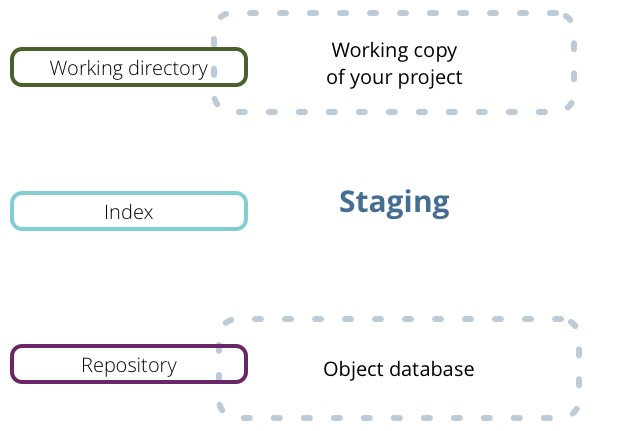
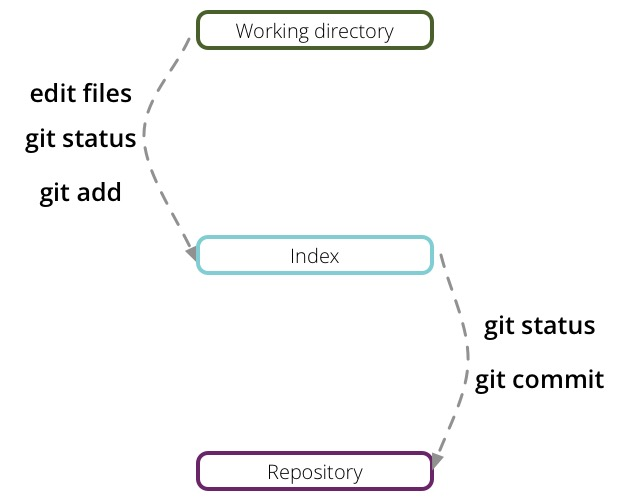
adding images for summary slides

diff --git a/index.html b/index.html
@@ -200,7 +200,8 @@
    </section>
 
    <section>
-    <h2>Branching and Merging</h2><br>
+    <h2>Branching and Merging</h2>
+    <br>
     <ul>
      <li> Non linear development </li>
      <li> Try a new idea </li>
@@ -220,7 +221,8 @@
    </section>
 
    <section>
-    <h2>Finally.... sharing</h2><br>
+    <h2>Finally.... sharing</h2>
+    <br>
     <ul>
      <li> Non linear development </li>
      <li> Try a new idea </li>
@@ -243,192 +245,214 @@
    </section>
 
    <section>
-    <h2>In Summary...</h2><br><br>
+    <h2>In Summary...</h2>
+    <br>
+    <br>
     <ul>
-     <li> Create a local repository </li>
+     <li> We are starting with a new project </li>
     </ul>
    </section>
 
    <section data-transition="none">
-    <h2>In Summary...</h2><br>
+    <h2>In Summary...</h2>
+    <br>
     <ul>
-     <li> Create a local repository </li>
+     <li> We are starting with a new project </li>
      <code> git init </code>
     </ul>
    </section>
 
    <section data-transition="none">
-    <h2>In Summary...</h2><br>
+    <h2>In Summary...</h2>
+    <br>
     <ul>
-     <li> Create a local repository </li>
+     <li> We are starting with a new project </li>
      <code> git init </code>
-     <li> Add files to staging aread </li>
+     <li> My first few test cases are green </li>
     </ul>
    </section>
 
    <section data-transition="none">
-    <h2>In Summary...</h2><br>
+    <h2>In Summary...</h2>
+    <br>
     <ul>
-     <li> Create a local repository </li>
+     <li> We are starting with a new project </li>
      <code> git init </code>
-     <li> Add files to staging aread </li>
-     <code> git add filename </code>
+     <li> My first few test cases are green </li>
+     <code> git status && git add filename </code>
     </ul>
    </section>
 
    <section data-transition="none">
-    <h2>In Summary...</h2><br>
+    <h2>In Summary...</h2>
+    <br>
     <ul>
-     <li> Create a local repository </li>
+     <li> We are starting with a new project </li>
      <code> git init </code>
-     <li> Add files to staging aread </li>
-     <code> git add filename </code>
-     <li> Commit files to local repository </li>
+     <li> My first few test cases are green </li>
+     <code> git status && git add filename </code>
+     <li> I want to update files to my local repository </li>
     </ul>
    </section>
 
    <section data-transition="none">
-    <h2>In Summary...</h2><br>
+    <h2>In Summary...</h2>
+    <br>
     <ul>
-     <li> Create a local repository </li>
+     <li> We are starting with a new project </li>
      <code> git init </code>
-     <li> Add files to staging aread </li>
-     <code> git add filename </code>
-     <li> Commit files to local repository </li>
+     <li> My first few test cases are green </li>
+     <code> git status && git add filename </code>
+     <li> I want to update files to my local repository </li>
      <code> git commit -m "refactor:... @pair@: zzz " </code>
     </ul>
    </section>
 
    <section data-transition="none">
-    <h2>In Summary...</h2><br>
+    <h2>In Summary...</h2>
+    <br>
     <ul>
-     <li> Create a local repository </li>
+     <li> We are starting with a new project </li>
      <code> git init </code>
-     <li> Add files to staging aread </li>
-     <code> git add filename </code>
-     <li> Commit files to local repository </li>
+     <li> My first few test cases are greend </li>
+     <code> git status && git add filename </code>
+     <li> I want to update files to my local repository </li>
      <code> git commit -m "refactor:... @pair@: zzz " </code>
-     <li> Check the status </li>
+     <li> I want to check the status </li>
     </ul>
    </section>
 
    <section data-transition="none">
-    <h2>In Summary...</h2><br>
+    <h2>In Summary...</h2>
+    <br>
     <ul>
-     <li> Create a local repository </li>
+     <li> We are starting with a new project </li>
      <code> git init </code>
-     <li> Add files to staging aread </li>
-     <code> git add filename </code>
-     <li> Commit files to local repository </li>
+     <li> My first few test cases are green </li>
+     <code> git status && git add filename </code>
+     <li> I want to update files to my local repository </li>
      <code> git commit -m "refactor:... @pair@: zzz " </code>
-     <li> Check the status </li>
+     <li> I want to check the status </li>
      <code> git status </code>
     </ul>
    </section>
 
    <section data-transition="none">
-    <h2>In Summary...</h2><br>
+    <h2>In Summary...</h2>
+    <br>
     <ul>
-     <li> Create a local repository </li>
+     <li> We are starting with a new project </li>
      <code> git init </code>
-     <li> Add files to staging aread </li>
-     <code> git add filename </code>
-     <li> Commit files to local repository </li>
+     <li> My first few test cases are green </li>
+     <code> git status && git add <i>filename</i> </code>
+     <li> I want to update files to my local repository </li>
      <code> git commit -m "refactor:... @pair@: zzz " </code>
-     <li> Check the status </li>
+     <li> I want to check the status </li>
      <code> git status </code>
-     <li> Update to existing remote repository </li>
+     <li> Get updates pushed by my friends </li>
     </ul>
    </section>
 
    <section data-transition="none">
-    <h2>In Summary...</h2><br>
+    <h2>In Summary...</h2>
+    <br>
     <ul>
-     <li> Create a local repository </li>
+     <li> We are starting with a new project </li>
      <code> git init </code>
-     <li> Add files to staging aread </li>
-     <code> git add filename </code>
-     <li> Commit files to local repository </li>
+     <li> My first few test cases are green </li>
+     <code> git status && git add <i>filename</i> </code>
+     <li> I want to update files to my local repository </li>
      <code> git commit -m "refactor:... @pair@: zzz " </code>
-     <li> Check the status </li>
+     <li> I want to check the status </li>
      <code> git status </code>
-     <li> Update to existing remote repository </li>
+     <li> Get updates pushed by my friends </li>
+     <code> git pull</code>
+    </ul>
+   </section>
+
+   <section data-transition="none">
+    <h2>In Summary...</h2>
+    <br>
+    <ul>
+     <li> We are starting with a new project </li>
+     <code> git init </code>
+     <li> My first few test cases are green </li>
+     <code> git status && git add <i>filename</i> </code>
+     <li> I want to update files to my local repository </li>
+     <code> git commit -m "refactor:... @pair@: zzz " </code>
+     <li> I want to check the status </li>
+     <code> git status </code>
+     <li> Get updates pushed by my friends </li>
+     <code> git pull </code>
+     <li> Update my changes to existing remote repository </li>
+    </ul>
+   </section>
+
+   <section data-transition="none">
+    <h2>In Summary...</h2>
+    <br>
+    <ul>
+     <li> We are starting with a new project </li>
+     <code> git init </code>
+     <li> My first few test cases are green </li>
+     <code> git status && git add <i>filename</i> </code>
+     <li> I want to update files to my local repository </li>
+     <code> git commit -m "refactor:... @pair@: zzz " </code>
+     <li> I want to check the status </li>
+     <code> git status </code>
+     <li> Get updates pushed by my friends </li>
+     <code> git pull </code>
+     <li> Update my changes to existing remote repository </li>
      <code> git push <i>remote</i> <i>branch</i> </code>
-    </ul>
-   </section>
-
-   <section data-transition="none">
-    <h2>In Summary...</h2><br>
-    <ul>
-     <li> Create a local repository </li>
-     <code> git init </code>
-     <li> Add files to staging aread </li>
-     <code> git add filename </code>
-     <li> Commit files to local repository </li>
-     <code> git commit -m "refactor:... @pair@: zzz " </code>
-     <li> Check the status </li>
-     <code> git status </code>
-     <li> Update to existing remote repository </li>
-     <code> git push <i>remote</i> <i>branch</i> </code>
-     <li> Work on existing repository </li>
-    </ul>
-   </section>
-
-   <section data-transition="none">
-    <h2>In Summary...</h2><br>
-    <ul>
-     <li> Create a local repository </li>
-     <code> git init </code>
-     <li> Add files to staging aread </li>
-     <code> git add filename </code>
-     <li> Commit files to local repository </li>
-     <code> git commit -m "refactor:... @pair@: zzz " </code>
-     <li> Check the status </li>
-     <code> git status </code>
-     <li> Update to existing remote repository </li>
-     <code> git push <i>remote</i> <i>branch</i> </code>
-     <li> Work on existing repository </li>
-     <code> git clone <i>repository</i> </code>
     </ul>
    </section>
 
    <section data-transition="none">
     <h2>In Summary...</h2>
     <ul>
-     <li> Create a local repository </li>
+     <li> We are starting with a new project </li>
      <code> git init </code>
-     <li> Add files to staging aread </li>
-     <code> git add filename </code>
-     <li> Commit files to local repository </li>
+     <li> My first few test cases are green </li>
+     <code> git status && git add <i>filename</i> </code>
+     <li> I want to update files to my local repository </li>
      <code> git commit -m "refactor:... @pair@: zzz " </code>
-     <li> Check the status </li>
+     <li> I want to check the status </li>
      <code> git status </code>
+     <li> Get updates pushed by my friends </li>
+     <code> git pull </code>
      <li> Update to existing remote repository </li>
      <code> git push <i>remote</i> <i>branch</i> </code>
      <li> Work on existing repository </li>
-     <code> git clone <i>repository</i> </code>
-     <li> Get updates pushed by my friends </li>
     </ul>
    </section>
 
    <section data-transition="none">
-    <h2>In Summary...</h2><br>
+    <h2>In Summary...</h2>
     <ul>
-     <li> Create a local repository </li>
+     <li> We are starting with a new project </li>
      <code> git init </code>
-     <li> Add files to staging aread </li>
-     <code> git add filename </code>
-     <li> Commit files to local repository </li>
+     <li> My first few test cases are green </li>
+     <code> git status && git add <i>filename</i> </code>
+     <li> I want to update files to my local repository </li>
      <code> git commit -m "refactor:... @pair@: zzz " </code>
-     <li> Check the status </li>
+     <li> I want to check the status </li>
      <code> git status </code>
+     <li> Get updates pushed by my friends </li>
+     <code> git pull</code>
      <li> Update to existing remote repository </li>
      <code> git push <i>remote</i> <i>branch</i> </code>
      <li> Work on existing repository </li>
      <code> git clone <i>repository</i> </code>
-     <li> Get updates pushed by my friends </li>
-     <code> git pull </code>
     </ul>
+   </section>
+
+   <section>
+    <aside class="notes">
+     <ul>
+      <li>
+     GitHub, is a web-page/hosting service for projects that uses git on which you can publish your Git repositories and collaborate with other people</li>
+     <li> good to use, even if not colloborating with others. Tracks your progress, you can go back to anytime, backup</li>
+    </aside>
    </section>
    <!-- END OF TUTORIAL SLIDES -->
 
